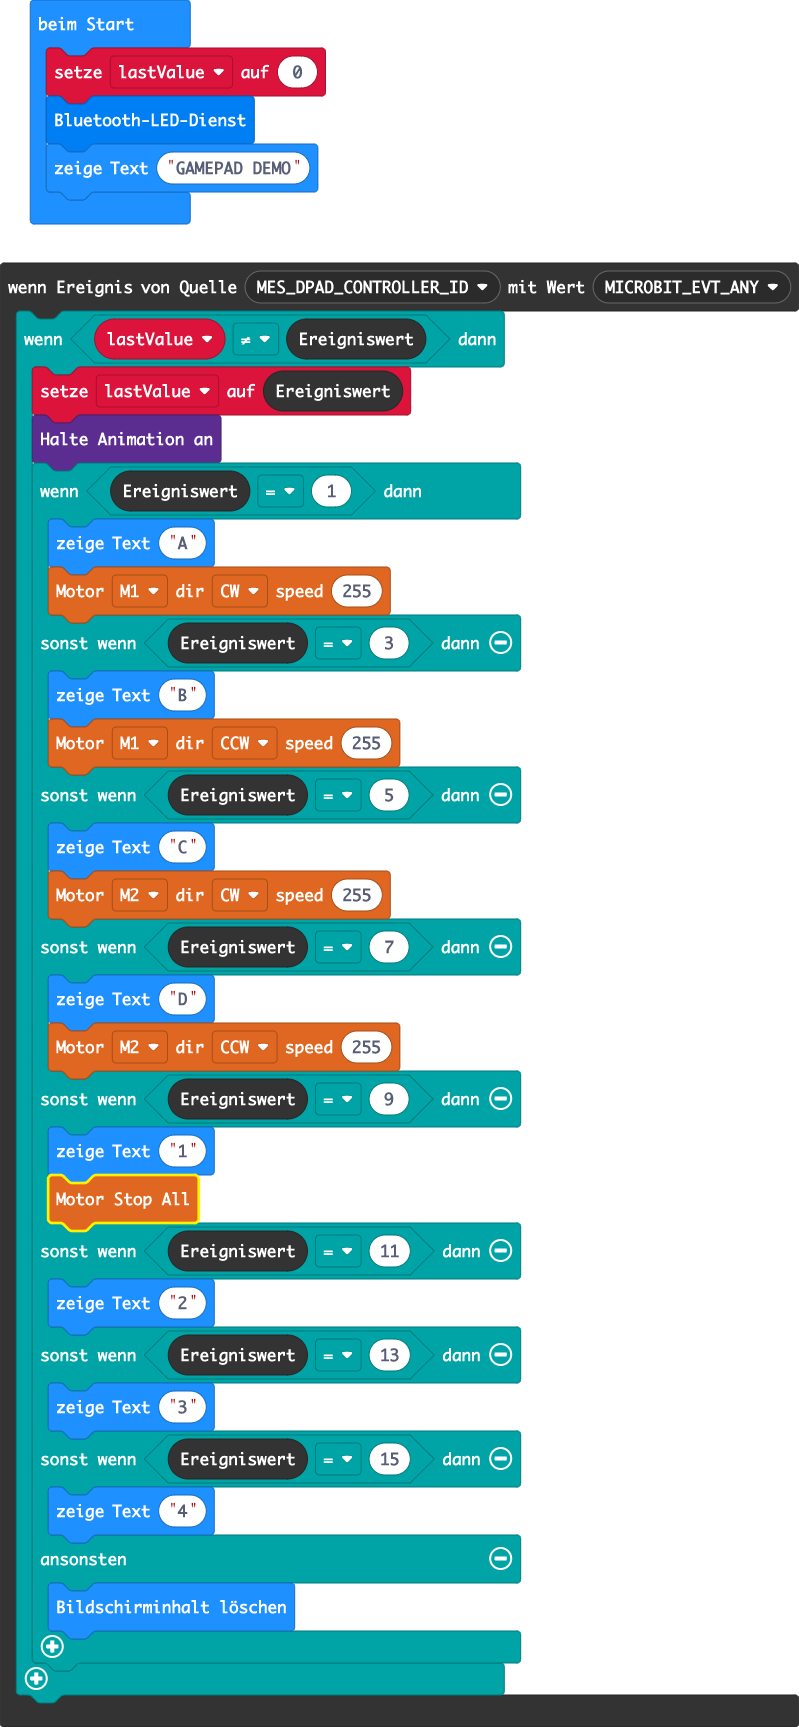
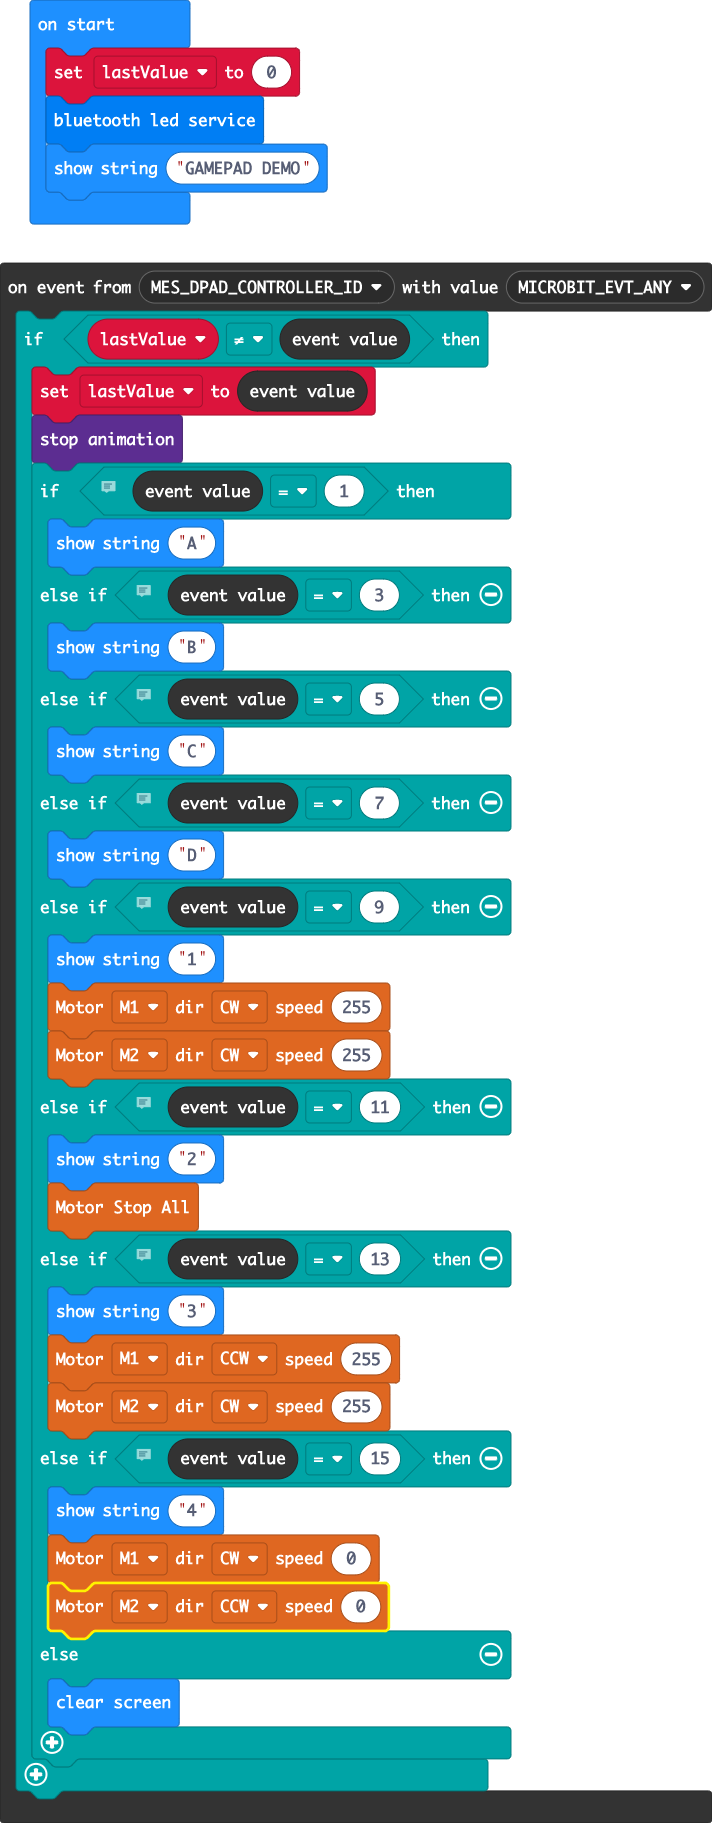
Update main.blocks, main.ts

diff --git a/main.ts b/main.ts
@@ -2,27 +2,37 @@ control.onEvent(EventBusSource.MES_DPAD_CONTROLLER_ID, EventBusValue.MICROBIT_EV
     if (lastValue != control.eventValue()) {
         lastValue = control.eventValue()
         led.stopAnimation()
+        // A
+        // B
+        // C
+        // D
+        // 1
+        // 2
+        // 3
+        // 4
         if (control.eventValue() == 1) {
             basic.showString("A")
-            motor.MotorRun(motor.Motors.M1, motor.Dir.CW, 255)
         } else if (control.eventValue() == 3) {
             basic.showString("B")
-            motor.MotorRun(motor.Motors.M1, motor.Dir.CCW, 255)
         } else if (control.eventValue() == 5) {
             basic.showString("C")
-            motor.MotorRun(motor.Motors.M2, motor.Dir.CW, 255)
         } else if (control.eventValue() == 7) {
             basic.showString("D")
-            motor.MotorRun(motor.Motors.M2, motor.Dir.CCW, 255)
         } else if (control.eventValue() == 9) {
             basic.showString("1")
-            motor.motorStopAll()
+            motor.MotorRun(motor.Motors.M1, motor.Dir.CW, 255)
+            motor.MotorRun(motor.Motors.M2, motor.Dir.CW, 255)
         } else if (control.eventValue() == 11) {
             basic.showString("2")
+            motor.motorStopAll()
         } else if (control.eventValue() == 13) {
             basic.showString("3")
+            motor.MotorRun(motor.Motors.M1, motor.Dir.CCW, 255)
+            motor.MotorRun(motor.Motors.M2, motor.Dir.CW, 255)
         } else if (control.eventValue() == 15) {
             basic.showString("4")
+            motor.MotorRun(motor.Motors.M1, motor.Dir.CW, 0)
+            motor.MotorRun(motor.Motors.M2, motor.Dir.CCW, 0)
         } else {
             basic.clearScreen()
         }
